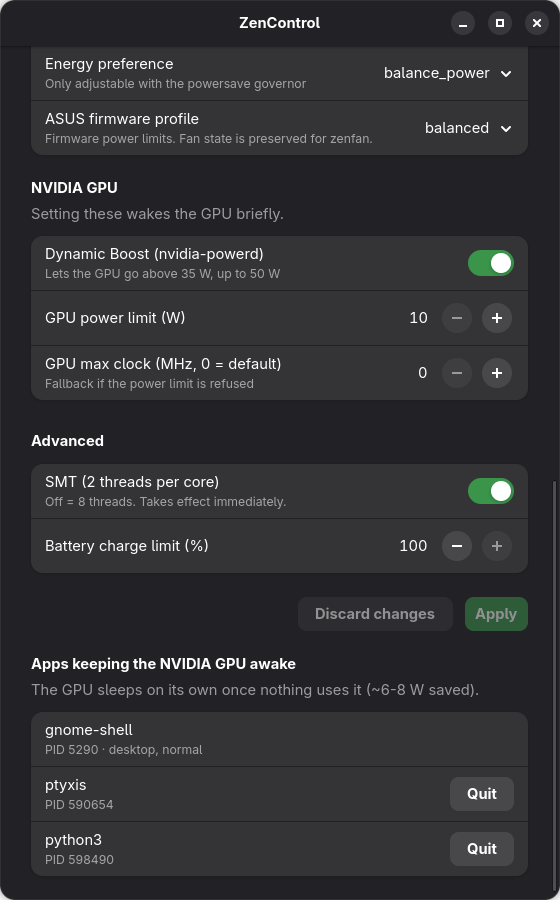
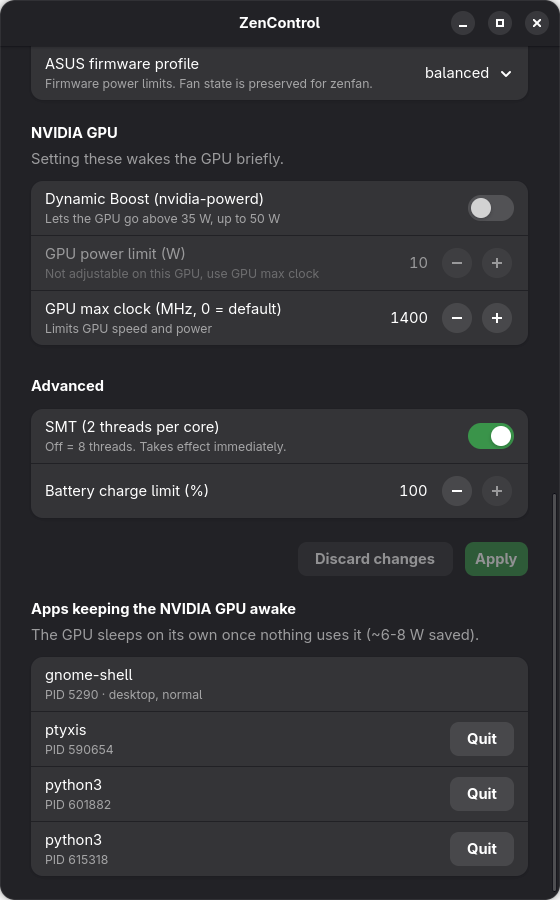
Fix GPU controls and Dynamic Boost restarts
- Use GPU clock caps in modes; power limit is not adjustable on this GPU
- Disable the power limit control when the driver reports it as N/A
- Show GPU temperature and power when the software limit is unavailable
- Reset nvidia-powerd start limit before starting it
- Show the active GPU clock cap in the UI

diff --git a/app/zencontrol.py b/app/zencontrol.py
@@ -151,9 +151,11 @@ class Window(Adw.ApplicationWindow):
                                   description="Setting these wakes the GPU briefly.")
         self.w_dboost = self._switch(gg, "Dynamic Boost (nvidia-powerd)", "dynamic_boost",
                                      "Lets the GPU go above 35 W, up to 50 W")
-        self.w_gpuw = self._spin(gg, "GPU power limit (W)", 10, 50, 1, "gpu_power_w")
+        self.w_gpuw = self._spin(gg, "GPU power limit (W)", 10, 50, 1, "gpu_power_w",
+                                 "Checking support when the GPU wakes")
+        self.w_gpuw.set_sensitive(False)
         self.w_gpuclk = self._spin(gg, "GPU max clock (MHz, 0 = default)", 0, 2100, 50,
-                                   "gpu_max_clock_mhz", "Fallback if the power limit is refused")
+                                   "gpu_max_clock_mhz", "Limits GPU speed and power")
         page.add(gg)
 
         ag = Adw.PreferencesGroup(title="Advanced")
@@ -216,9 +218,13 @@ class Window(Adw.ApplicationWindow):
 
     def _set_gpu_info(self, info):
         self.gpu_info = info
-        if info and "gpu_power_w" not in self.dirty:
+        if not info:
+            return
+        self.w_gpuw.set_sensitive(info["adjustable"])
+        self.w_gpuw.set_subtitle("" if info["adjustable"] else "Not adjustable on this GPU, use GPU max clock")
+        if info["adjustable"] and "gpu_power_w" not in self.dirty:
             self.loading = True
-            self.w_gpuw.set_value(info["limit"])
+            self.w_gpuw.set_value(info["sw_limit"])
             self.loading = False
 
     def _refresh_holders(self):
@@ -253,10 +259,11 @@ class Window(Adw.ApplicationWindow):
         self.w_prof.set_selected(PLATFORM.index(s["platform_profile"]) if s["platform_profile"] in PLATFORM else 0)
         self.w_dboost.set_active(s["dynamic_boost"])
         self.w_smt.set_active(s["smt"])
+        self.w_gpuclk.set_value(s["gpu_max_clock_mhz"])
         if s["charge_limit"]:
             self.w_charge.set_value(s["charge_limit"])
-        if self.gpu_info:
-            self.w_gpuw.set_value(self.gpu_info["limit"])
+        if self.gpu_info and self.gpu_info["adjustable"]:
+            self.w_gpuw.set_value(self.gpu_info["sw_limit"])
         self._update_hints()
         self.loading = False
         self.dirty.clear()

diff --git a/app/monitor.py b/app/monitor.py
@@ -73,11 +73,13 @@ def gpu_query():
         return None
     try:
         out = subprocess.run(
-            ["nvidia-smi", "--query-gpu=temperature.gpu,power.draw,clocks.gr,power.limit",
+            ["nvidia-smi", "--query-gpu=temperature.gpu,power.draw,clocks.gr,enforced.power.limit,power.limit",
              "--format=csv,noheader,nounits"],
             capture_output=True, text=True, timeout=3).stdout.strip()
-        t, w, c, lim = (x.strip() for x in out.split(","))
-        return {"temp": float(t), "watts": float(w), "mhz": float(c), "limit": float(lim)}
+        t, w, c, lim, sw = (x.strip() for x in out.split(","))
+        adjustable = sw.replace(".", "").isdigit()
+        return {"temp": float(t), "watts": float(w), "mhz": float(c), "limit": float(lim),
+                "sw_limit": float(sw) if adjustable else None, "adjustable": adjustable}
     except Exception:
         return None
 
@@ -109,5 +111,6 @@ def snapshot():
         "platform_profile": read("/sys/firmware/acpi/platform_profile"),
         "smt": read(f"{CPU}/smt/control") == "on",
         "charge_limit": num(f"{bat}/charge_control_end_threshold"),
+        "gpu_max_clock_mhz": num("/run/zencontrol/gpu_max_clock", default=0),
         "dynamic_boost": subprocess.run(["systemctl", "is-active", "--quiet", "nvidia-powerd"]).returncode == 0,
     }

diff --git a/README.md b/README.md
@@ -12,7 +12,7 @@ A small GTK4 / libadwaita app for controlling CPU and GPU power on the **ASUS Ze
 - **Quick modes**: Max Performance, Performance, Balanced, Extreme Powersave, and Stock (restores the values saved the first time you apply a change)
 - **Live monitoring**: CPU temperature and package power, per-core clocks, fan RPM, NVIDIA GPU state, battery draw and estimated time left
 - **CPU controls**: boost on/off, max frequency, governor, energy performance preference (EPP), ASUS firmware platform profile
-- **NVIDIA GPU controls**: Dynamic Boost (`nvidia-powerd`), power limit, max graphics clock
+- **NVIDIA GPU controls**: Dynamic Boost (`nvidia-powerd`), max graphics clock, and power limit on GPUs whose driver allows it
 - **Advanced**: SMT on/off, battery charge limit (60–100 %)
 - **GPU wake tracker**: lists the apps keeping the dGPU awake, with a button to quit them so the GPU can sleep
 
@@ -62,12 +62,17 @@ To uninstall:
 | Mode | CPU | GPU | Firmware profile |
 |---|---|---|---|
 | Max Performance | boost on, up to 4465 MHz | stock limit, Dynamic Boost on | performance |
-| Performance | boost off, 3200 MHz | 30 W, Dynamic Boost off | performance |
-| Balanced | 2800 MHz, `balance_performance` | 25 W | balanced |
+| Performance | boost off, 3200 MHz | 30 W base limit, Dynamic Boost off | performance |
+| Balanced | 2800 MHz, `balance_performance` | capped at 1400 MHz | balanced |
 | Extreme Powersave | 1800 MHz, `power` EPP | left alone so it can sleep | quiet |
 | Stock | values saved on first run | default | as saved |
 
 Modes are defined in [`data/profiles.json`](data/profiles.json) and can be edited.
+
+### GPU notes
+
+- On the UX535QE the driver does not allow changing the GPU power limit, so that control is disabled and modes limit the GPU with a clock cap instead. At full load, 1400 MHz draws about 15 W versus about 18 W uncapped (measured with `glxgears`).
+- Without Dynamic Boost the GPU is held at its 30 W base limit. The BIOS only enables Dynamic Boost on AC power.
 
 ## Project layout
 
